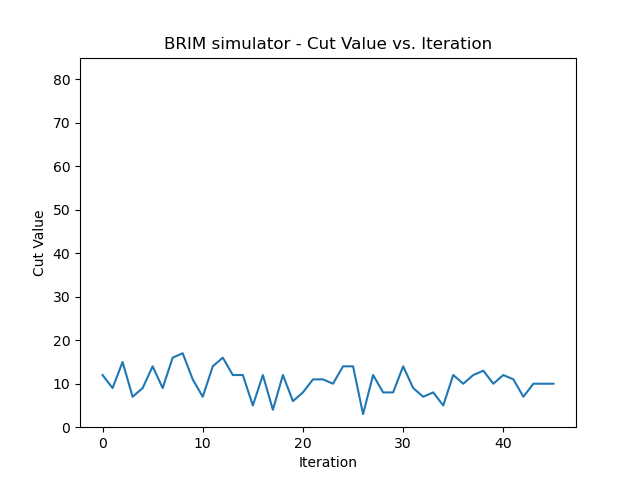
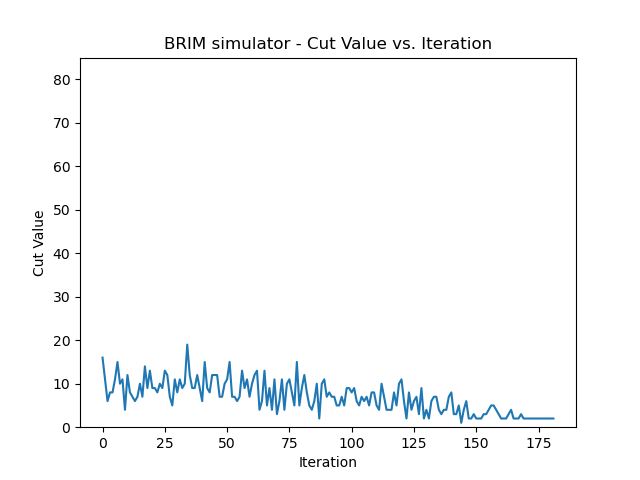
working

diff --git a/SAT-Assignment/main_cubic.py b/SAT-Assignment/main_cubic.py
@@ -7,7 +7,7 @@ from typing import Iterable
 
 torch.manual_seed(0) # fix the random seed for reproducibility
 
-def runbrim(P: torch.Tensor, J: torch.Tensor, h: torch.Tensor, clauses: Iterable[Iterable], config: BRIMconfig, spin: torch.Tensor = None):
+def runbrim(P: torch.Tensor, J: torch.Tensor, h: torch.Tensor, clauses: Iterable[Iterable], config: BRIMconfig, spin: torch.Tensor = None, const = 0):
     # Number of annealing steps
     annealing_steps: float = config.t_stop / config.t_step
     h = h.unsqueeze(-1)
@@ -51,7 +51,7 @@ def runbrim(P: torch.Tensor, J: torch.Tensor, h: torch.Tensor, clauses: Iterable
         
         # <---- YOUR CODE HERE v---->
         # print(spin.T.matmul(P.matmul(spin)).s)
-        gradient = (J.matmul(spin.sign()) + h + 1/2* torch.einsum('ijk,jl,kl->il', P, spin.sign(), spin.sign())) * config.t_step / config.C
+        gradient = -(J.matmul(spin.sign()) + h + 1/2 * torch.einsum('ijk,jl,kl->il', P, spin.sign(), spin.sign())) * config.t_step / config.C
         spin += gradient
         # <---- YOUR CODE HERE ^---->
 
@@ -67,17 +67,16 @@ def runbrim(P: torch.Tensor, J: torch.Tensor, h: torch.Tensor, clauses: Iterable
 
         # save the cut value
         if i % 1000 == 0:
-            print(spin.sign().T @ gradient / config.t_step * config.C * config.R)
             unsats.append(unsat_count(spin, clauses))
     return unsats
 
 
 def main():
     config: BRIMconfig = BRIMconfig()
-    config.t_stop = 1e-6
+    config.t_stop = 4e-6
     nvars, clauses = parse_dimacs_cnf("uf20-01.cnf")
     h, J, P, const = convert_clauses_to_ising(nvars, clauses)
-    cuts = runbrim(h=h, P=P, J=J, clauses=clauses, config=config)
+    cuts = runbrim(h=h, P=P, J=J, clauses=clauses, config=config,const=const)
     print(f"final_cut_value: {cuts[-1]}, hardware_time: {config.t_stop} seconds")
     fig, ax = plt.subplots()
     ax.set_title("BRIM simulator - Cut Value vs. Iteration")

diff --git a/SAT-Assignment/utils.py b/SAT-Assignment/utils.py
@@ -8,8 +8,8 @@ class BRIMconfig:
         self,
         R=310e3,
         C=49e-15,
-        scale_start=2.4,
-        scale_end=0.6,
+        scale_start=2.8,
+        scale_end=0.4,
         t_step=2.2e-11,
         t_stop=2.2e-6,
     ) -> None:
@@ -32,7 +32,7 @@ def _calc_energy(spin, J, config):
     return -0.5 * torch.matmul(_spin.T, torch.matmul(J, _spin)) * config.R * config.maxW
 
 def sign(x):
-    return -1 if x > 0 else 1
+    return 1 if x > 0 else -1
 
 def unsat_count(spin, clauses):
     unsat_count = len(clauses)
@@ -77,7 +77,7 @@ def convert_clauses_to_ising(num_vars, clauses, dtype=torch.float32):
         for literal in clause:
             var = var_symbols[abs(literal) - 1]
             term *= (1 - var) if literal > 0 else (1 + var)
-        expanded = sp.expand(term) / 8 #in HOIM paper, they added 1/8 to make the energy look great
+        expanded =  1/8 *sp.expand(term) #in HOIM paper, they added 1/8 to make the energy look great
         coeffs = expanded.as_coefficients_dict()
         for monomial, coeff in coeffs.items():
             if monomial == 1:
